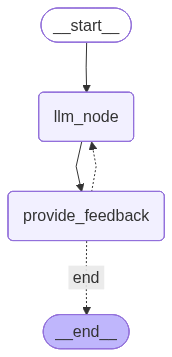
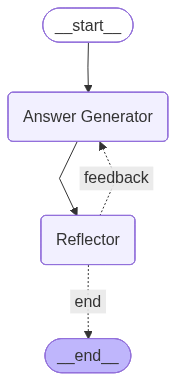
fix: Update Reflection png

Changed region(s): [[0.0291, 0.0, 0.9593, 0.986], [0.0291, 0.2465, 0.0581, 0.3697], [0.2326, 0.8936, 0.2907, 0.9552]]

diff --git a/Reflection/langgraph_reflection.py b/Reflection/langgraph_reflection.py
@@ -87,18 +87,18 @@ def decision_node(state: ReflectionState) -> str:
 	max_iterations = state["max_iterations"]
 	if feedback == "" or max_iterations > 3:
 		return "end"
-	return "llm_node"
+	return "feedback"
 
 
 
 def main():
 	graph = StateGraph(ReflectionState)
-	graph.add_node("llm_node", llm_node)
-	graph.add_node("provide_feedback", provide_feedback)
-	graph.add_edge(START, "llm_node")
-	graph.add_edge("llm_node", "provide_feedback")
-	graph.add_conditional_edges("provide_feedback", decision_node, {
-        "llm_node": "llm_node",
+	graph.add_node("Answer Generator", llm_node)
+	graph.add_node("Reflector", provide_feedback)
+	graph.add_edge(START, "Answer Generator")
+	graph.add_edge("Answer Generator", "Reflector")
+	graph.add_conditional_edges("Reflector", decision_node, {
+        "feedback": "Answer Generator",
         "end": END
     })
 
@@ -110,7 +110,7 @@ def main():
 
 
 	example = ReflectionState({
-			"query": "What is the capital of Abu Dhabi",
+			"query": "What is the capital of UAE ?",
 			"feedback": None,
 			"messages": [], 
 			"answer": None,
